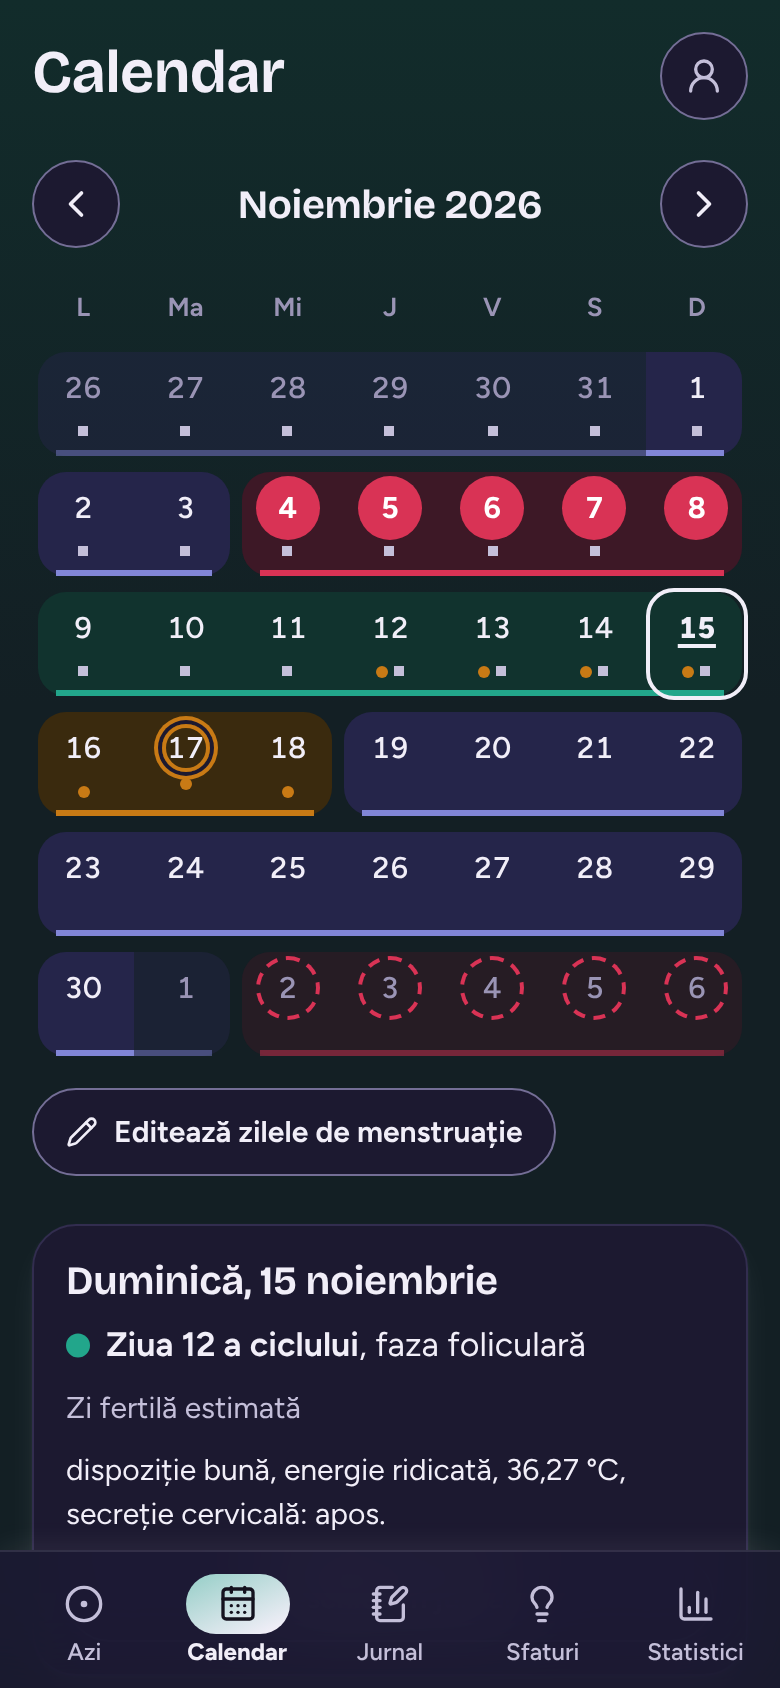
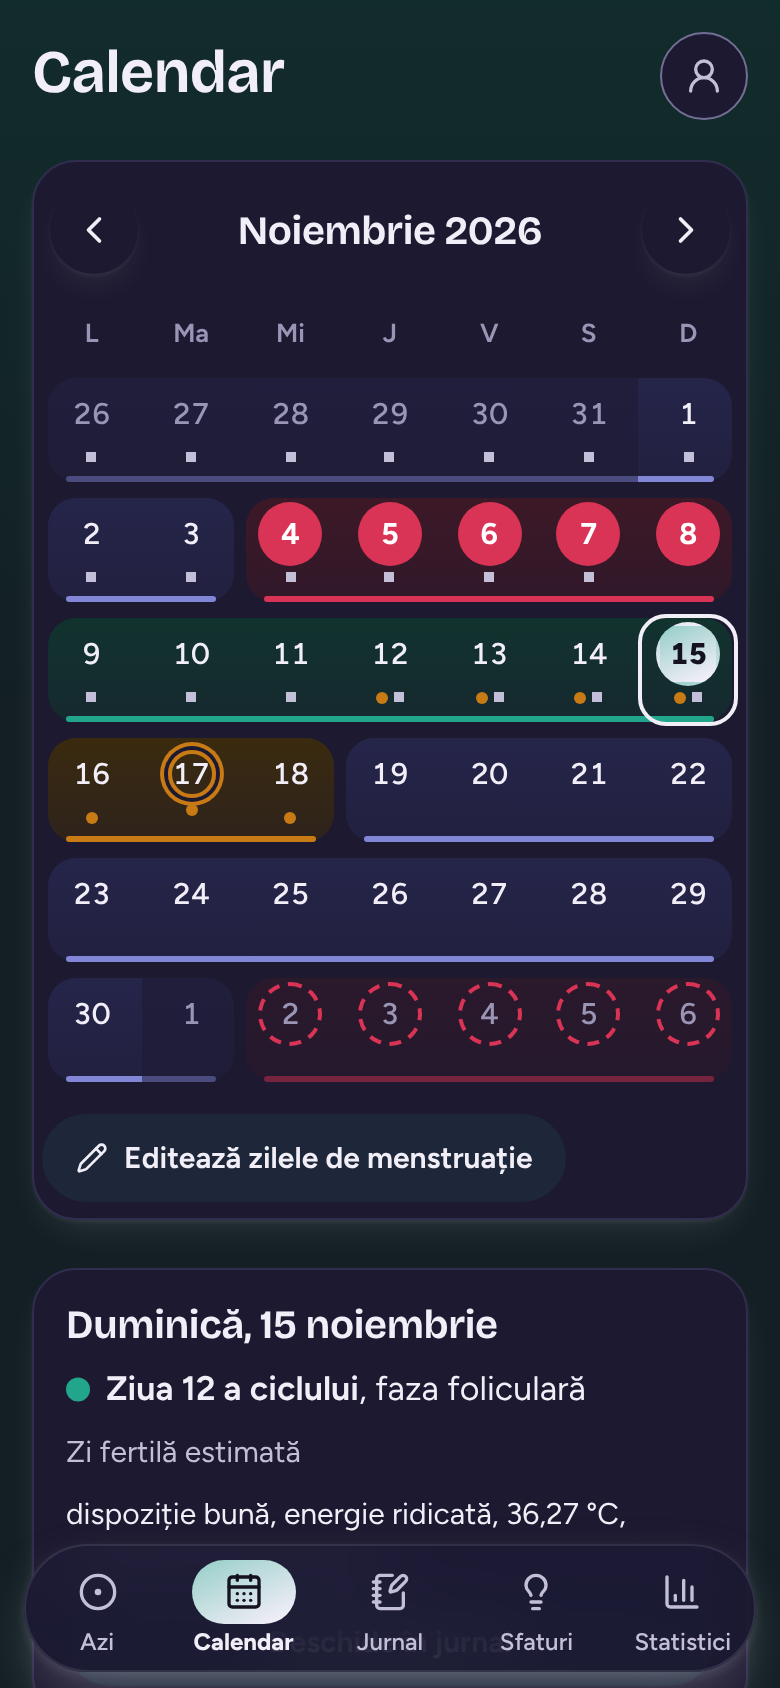
Show the capybara in the empty Statistics, document the design upgrade
The calendar card keeps a narrow side padding so nothing scrolls sideways
at the largest text size on a 320 px phone. Docs describe the filled
controls, the floating bar, the cards of Today, the charts, the calendar
and the empty state; documentation screenshots are regenerated.

Claude-Session: https://claude.ai/code/session_01YK9ibq7sAAhBnBr8T6xBgt

diff --git a/cyclecare/e2e/depth.spec.ts b/cyclecare/e2e/depth.spec.ts
@@ -122,3 +122,14 @@ test('the charts have gradient fills with ids that are unique across the pages t
   const ids = await page.evaluate(() => [...document.querySelectorAll('[id]')].map((el) => el.id));
   expect(ids.filter((id, i) => ids.indexOf(id) !== i)).toEqual([]);
 });
+
+test('with nothing to show yet, Statistics has the capybara waving, once, and no duplicate ids', async ({ page }) => {
+  await startEmpty(page);
+  await tab(page, 'Statistici');
+  const empty = page.locator('.page[data-active] .empty-state');
+  await expect(empty.getByRole('heading', { name: 'Încă nu sunt destule date' })).toBeVisible();
+  await expect(empty.locator('svg.capy-full')).toHaveCount(1);
+  await expect(empty.locator('svg.capy-full')).toHaveAttribute('aria-hidden', 'true');
+  const ids = await page.evaluate(() => [...document.querySelectorAll('[id]')].map((el) => el.id));
+  expect(ids.filter((id, i) => ids.indexOf(id) !== i)).toEqual([]);
+});

diff --git a/cyclecare/src/ui/Capybara.tsx b/cyclecare/src/ui/Capybara.tsx
@@ -423,11 +423,17 @@ function Blanket({ r }: { r: Refs }) {
  * arms up with sparkles in the follicular phase, a flower and stars at ovulation, wrapped in a fluffy
  * blanket in the luteal phase, and a wave, with a yuzu on its head, when there is no phase to show.
  */
-export function Capybara({ mood }: { mood: MascotMood }) {
+export function Capybara({ mood, className }: { mood: MascotMood; className?: string }) {
   const r = useRefs();
   const { eyes, mouth, hat } = POSE[mood];
   return (
-    <svg className="capy capy-full" data-mood={mood} viewBox="0 0 200 200" aria-hidden="true" focusable="false">
+    <svg
+      className={className ? `capy capy-full ${className}` : 'capy capy-full'}
+      data-mood={mood}
+      viewBox="0 0 200 200"
+      aria-hidden="true"
+      focusable="false"
+    >
       <Defs r={r} />
       <ellipse cx={100} cy={190} rx={64} ry={8} fill={paint(r, 'shadow')} />
 

diff --git a/cyclecare/src/screens/Stats.tsx b/cyclecare/src/screens/Stats.tsx
@@ -8,6 +8,7 @@ import { addDays } from '../domain/dates';
 import { bbtSeries, cycleRows, moodByPhase, moodSeries, periodRuns, symptomMatrix } from '../domain/stats';
 import { formatDate, formatMonthKey, formatNumber, strings } from '../i18n';
 import { buildReportPdf } from '../pdf/report';
+import { Capybara } from '../ui/Capybara';
 import { BbtChart, ChartFrame, CycleLengthChart, MoodChart } from '../ui/charts';
 import { Segmented } from '../ui/controls';
 import { Sheet } from '../ui/Sheet';
@@ -54,7 +55,8 @@ export function StatsScreen() {
   return (
     <Screen title={st.title} settings>
       {!hasAnything ? (
-        <div className="stack stack-3">
+        <div className="card empty-state stack stack-3">
+          <Capybara mood="hello" className="empty-mascot" />
           <h2>{st.empty.title}</h2>
           <p className="ink-2">{st.empty.body}</p>
         </div>

diff --git a/cyclecare/src/styles/depth.css b/cyclecare/src/styles/depth.css
@@ -378,7 +378,7 @@ html[data-phase] .app {
    rail, the marks and the legend are unchanged: they are what carries the phase besides colour. */
 
 .cal-card {
-  padding: var(--s3) var(--s2) var(--s2);
+  padding: var(--s3) var(--s1) var(--s2);
 }
 .cal-card .cal-nav {
   padding-inline: var(--s1);
@@ -413,4 +413,17 @@ html[data-phase] .app {
     background-color: Highlight;
     color: HighlightText;
   }
+}
+
+/* ---------------------------------------------------------------- empty states
+
+   Where there is nothing to show yet, the capybara waves instead of a bare line of text. */
+
+.empty-state {
+  align-items: center;
+  text-align: center;
+}
+.capy-full.empty-mascot {
+  width: min(11rem, 62%);
+  margin-inline: auto;
 }

diff --git a/cyclecare/src/screens/Today.tsx b/cyclecare/src/screens/Today.tsx
@@ -318,7 +318,7 @@ export function TodayScreen() {
                 ))}
               </ul>
             ) : (
-              <div className="stack stack-3" style={{ textAlign: 'center' }}>
+              <div className="empty-state stack stack-3">
                 <h3>{s.today.noData.title}</h3>
                 <p className="ink-2">{s.today.noData.body}</p>
                 <button type="button" className="btn btn-primary" onClick={() => openJournal(today)}>

diff --git a/cyclecare/docs/01-ecrane-si-navigare.md b/cyclecare/docs/01-ecrane-si-navigare.md
@@ -343,6 +343,12 @@ Aplicația are un cadru fix: fiecare ecran derulează în propriul container, su
 | Ferestrele | Pe telefon urcă de la marginea de jos și pot fi trase în jos de antet sau de conținut (când acesta este la început); se închid după un sfert din înălțime sau la o mișcare rapidă, altfel revin cu un mic arc. Escape și atingerea în afara ferestrei le închid la fel. Pe ecrane late sunt dialoguri centrate care se estompează. Stau deasupra tastaturii |
 | Culoare după fază | Fundalul paginii ia o nuanță blândă din faza curentă (menstruație, foliculară, ovulație, luteală), cu un luciu mai intens în partea de sus care se stinge spre restul paginii. Nuanța este aceeași pe toate filele. Lipsește când nu există o fază de arătat (fără ciclu, estimări oprite, menstruație întârziată) și pe telefonul partenerului. Culorile (`bg-*`, `glow-*` în `tokens.json`) sunt amestecuri ale culorilor-tint cu fundalul, verificate pentru contrast în ambele teme; `src/app/phaseTint.ts`, `src/styles/depth.css` |
 | Adâncime și feluri de carduri | Cardurile se ridică din pagină cu umbre moi, nu cu contur. Trei feluri: **ridicat** (`.card`, `.list`, `.tip-card`: cardul obișnuit), **principal** (`.card-hero`: cercul de pe „Azi”, tintat de fază, cu umbră mai adâncă în culoarea fazei) și **plat** (`.card-flat`: panouri secundare din Setări, Partener, Copie de siguranță, translucide, fără umbră). În tema întunecată, unde umbrele se văd puțin, rămâne un contur discret. La „Contrast mărit” revin conturile și fundalul neutru, iar la culori forțate conturul sistemului |
+| Butoane și alegeri umplute | Butoanele secundare, chipurile, treptele de scală și butoanele rotunde din antet nu mai au contur. Pe pagină sunt albe, ridicate de o umbră moale; în interiorul unui card, care e deja alb, sunt o nuanță blândă a culorii fazei. Câmpurile de text și comutatorul își păstrează conturul, pentru că el arată unde sunt. La „Contrast mărit” și la culori forțate conturul revine |
+| Bara de file plutitoare | Pe telefon, bara de jos este o pastilă rotunjită de sticlă, desprinsă de margini, cu umbră (nu o fâșie cu linie sus). `--tabbar-h` include aerul din jurul ei, deci spațiul de la sfârșitul paginii, mesajele scurte și bara „Salvare” rămân deasupra. Pe ecrane late rămâne coloana din stânga |
+| Cardurile din „Azi” | Sub cerc, „Următoarea menstruație”, „Fertilitate”, „Risc de sarcină” și sfatul zilei sunt carduri cu o insignă rotundă în culoarea subiectului. Zilele până la menstruație apar ca o cifră mare („17 zile”, „azi”, „mâine” sau zilele de întârziere), doar pentru ochi (`aria-hidden`): propozițiile de dedesubt spun același lucru în cuvinte. Fertilitatea arată zilele până la fereastra fertilă, când e cazul. Butonul „Deschide jurnalul” din „Cum e azi?” e principal |
+| Grafice cu umplere | Barele pentru durata ciclurilor merg de la violet la ardezie, graficul de temperatură are o zonă fină sub linie, iar cadrele graficelor sunt ridicate ca niște carduri. Identificatorii gradientelor vin din `useId`, deci rămân unici chiar dacă filele rămân montate |
+| Calendar | Luna stă pe un card. Benzile fazelor au un gradient fin, iar șinele lor se rotunjesc la capetele unei serii; ziua de azi este un cerc plin (o zi cu semn propriu își păstrează semnul și sublinierea). Șina, semnele și legenda rămân: ele poartă faza și în afară de culoare |
+| Stări goale | Fără date, capibara salută în „Statistici” în loc de o simplă linie de text |
 | Gradient pe ce este ales | Butonul principal, fila curentă și orice alegere bifată (chip, treaptă, comutator) nu mai sunt o singură culoare: pornesc 45% spre culoarea fazei curente și se așază în culoarea obișnuită (în tema deschisă, de la bleumarin spre verdele, roșul, chihlimbarul sau violetul fazei; în cea întunecată, de la lavandă spre aceeași nuanță). Fără fază, rămâne culoarea simplă. Contrastul textului cu cel mai luminos capăt e verificat în ambele teme (`tests/tokens.test.ts`); la „Contrast mărit” și la culori forțate gradientul dispare. `--ink-gradient` în `src/styles/depth.css` |
 | Simțul de aplicație nativă | Pe telefon, o apăsare lungă sau o tragere peste interfață nu selectează text și nu deschide meniul „Copiază” al browserului (`user-select: none`, `-webkit-touch-callout: none`, iar pe Android oprirea evenimentului `contextmenu` pentru degete, nu pentru mouse). Rămân selectabile câmpurile în care se scrie, codul de recuperare (care trebuie copiat) și declarația de confidențialitate (`.selectable`); `src/ui/native.ts`, `src/styles/base.css` |
 | Sticlă | Bara de navigare (după derulare), bara de file, ferestrele și mesajele scurte lasă să se vadă, estompat, ce este dedesubt. Culorile sunt aceleași; fără suport pentru estompare, sau cu „Reducere transparență” ori „Contrast mărit”, suprafețele sunt opace |

diff --git a/cyclecare/README.md b/cyclecare/README.md
@@ -141,6 +141,7 @@ Fluxul din `.github/workflows/cyclecare-pages.yml` rulează verificările și pu
 | Modul Partener                     | Invitație cu cod și cifre de verificare, permisiuni, sincronizare criptată cap-coadă, vizualizare doar pentru citire pe telefonul partenerului                                                                 | `src/partner/`, `src/domain/partner.ts`, `src/screens/PartnerScreens.tsx`, `server/relay.ts`                 | `tests/partner.test.ts`, `tests/relay.test.ts`, `e2e/partner.spec.ts`                          |
 | Copia de siguranță                 | Cod de recuperare, fișier criptat `.cyclecare`, copie automată criptată pe server cu acord separat, restaurare, versiuni în timp                                                                               | `src/backup/`, `src/screens/BackupSettings.tsx`, `server/relay.ts`                                           | `tests/backup.test.ts`, `tests/relay.test.ts`, `e2e/backup.spec.ts`                            |
 | Culoare și adâncime                | Fundal tintat de faza curentă, carduri ridicate cu umbre moi în trei feluri (ridicat, principal, plat), contur discret în tema întunecată, contur la „Contrast mărit”                                          | `src/app/phaseTint.ts`, `src/styles/depth.css`, `src/styles/tokens.json`                                     | `tests/tokens.test.ts`, `e2e/depth.spec.ts`                                                    |
+| Un strat de finețe vizuală         | Butoane umplute în loc de contur, bară de file plutitoare, carduri cu insigne și cifre mari sub cerc, grafice cu gradient, calendar pe card, capibara în stările goale                                         | `src/styles/depth.css`, `src/screens/Today.tsx`, `src/ui/charts.tsx`                                         | `e2e/depth.spec.ts`                                                                            |
 | Navigare și mișcare                | Stivă de ecrane cu tranziții, glisare înapoi, ferestre care se trag în jos, sticlă, reacție la apăsare, apariție în trepte, cerc care se desenează, grafice care cresc; totul se oprește la „Reducere mișcare” | `src/app/router.ts`, `src/ui/Navigator.tsx`, `src/ui/motion.ts`, `src/styles/motion.css`, `src/ui/Sheet.tsx` | `tests/router.test.ts`, `tests/motion.test.ts`, `e2e/motion.spec.ts`, `e2e/animations.spec.ts` |
 | Instalare și producție             | Manifest, pictograme, pornire fără internet, actualizări acceptate de persoană, pagină 404, tratarea erorilor, anulare, validări lângă câmp                                                                    | `vite.config.ts`, `public/sw.js`, `src/app/pwa.ts`, `src/app/errors.ts`                                      | `e2e/pwa.spec.ts`, `e2e/polish.spec.ts`                                                        |
 
